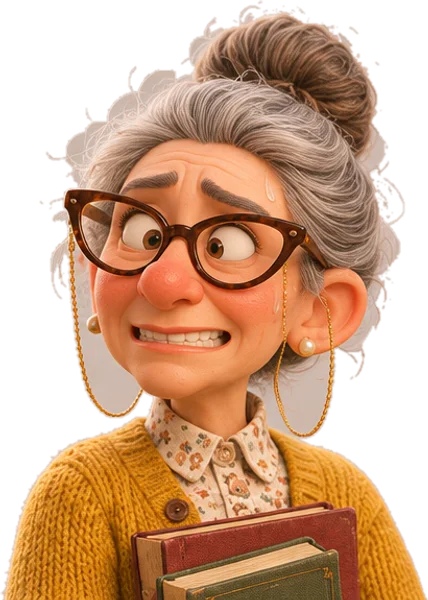
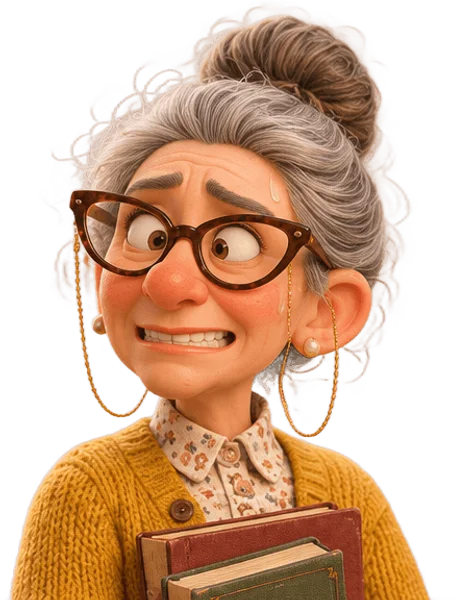
Games: 21 re-cut 3D portraits (Harbour Files Julian, Marcus, Hale, Meg, Ines, Mrs Dunn; Open House Grandma Ivy) (farin-english 6d7cd2dd)
Deploy exactly farin-english 6d7cd2dd:app

diff --git a/farin-sw.js b/farin-sw.js
@@ -1,4 +1,4 @@
-const CACHE = 'farin-english-v60';   // v60 2026-11-27: Harbour Files A1 opening hall (a1-plate-n12-hall-wide-hf.webp, the title card and hub); v59 2026-11-26: 13 Red Suitcase panels fixed (*-hf2.webp: A2 no fez / bowler / torches, the old camera; Whitby out of the window in A1 3.1 and 3.3); v58 v58 2026-11-26: Build It + Magic Words in their 9:16 3D rooms (the 3D lighthouse, doors, medallion, plaque, garden; THEATRE_VER 32); v57 2026-11-26: Open House in 3D (rooms + cut-outs repainted under the same names, manifest ?v=hf2, layers re-boxed); v56 2026-11-26: the quick games play in farin-e9's 9:16 3D rooms (Order Up!, Passport Desk, Listen & Type, Say It Back, Pier Dash, Word Bingo, Mini Cross, Story Hunt, Word Rush) with the 3D cut-outs under the same names; v55 2026-11-26: the game art fills the whole page: every intro poster is full-screen 9:16 key art (games/posters/<kind>-full.webp, the Red Suitcase unlettered cover), the quick-game worlds edge to edge (Theatre 1.4); v54 2026-11-26: Harbour Files redrawn in 3D (story panels, search plates, evidence + finds, the 1970 photos; *-hf.webp), two find boxes moved; v53 v53 2026-11-26: The Red Suitcase's own names (Danny, Nadia, Cobb) with their voices, Higgsfield Then & Now pairs (A1 ch2/4, A2, B2), the 2.6 calendar; v52 v52 2026-11-26: The Red Suitcase albums A2 / B1 / B2 in the Higgsfield painterly art (*-hf.webp, covers cover-hf, real-type signs, engine 0.7.2); v51 v51 2026-11-26: FE from the new art on the membership box (Farin's 11-21 autumn picture, winter from 1 Jan) and Profile (king, wizard, suitcase, binoculars); the old-sheet pictures removed; v50 v50 2026-11-26: the Higgsfield game art (Open House + Harbour Files 3D portraits, the café plates, Passport Desk in the 3D booth, The Red Suitcase A1 painterly panels ch1-6 + ch2 as comic pages + covers); v49 2026-11-26: the last 3D posters + cards, Order Up! shelf pictures without slivers; v48 2026-11-26: Home without the profile and Premium courses boxes, the membership box in brand purple with FE in his season clothes, the settings button opens Profile (FE in a Special / Travel outfit, Settings in its head), Courses in the bottom bar; v47 v47 2026-11-26: Captain in 3D (pt-captain-*.webp, same names); v46 2026-11-26: premium courses only through Plus and Guided (no single-course request or price); vv45 2026-11-26: the games' microphones (Say It Back, Open House free line: tap to stop, no lost taps, says why); v44 2026-11-26: the practice score weighs the whole answer (length, sentences, variety, topic), not just its length; v43 2026-11-26: Messages shows only the chats (no News from Farin list); v42 2026-11-26: card posters with ?v=, image cache fills revalidate (no stale copies), Open House / Harbour Files names; v41 2026-11-26: the new 3D roadmap cards (art/posters/card-*.webp, same names) + 3D posters; v40 2026-11-26: speaking-club dates refresh themselves while a screen stays open, old bookings pruned; vv39 2026-11-25: speaking clubs free for Guided members (free seat request, admin cross-check); vv38 2026-11-25: Guided includes the Thursday speaking clubs free (package text + a My Groups card in the Guided panel), adminMbPlanFor for the clubs; v37 2026-11-25: Order Up! 3D café art, full-body customers (same file names for the shelf items: a new cache); v36 2026-11-25: speaking clubs (My Groups, Speaking Club! roadmap cards, admin Speaking clubs + put a learner in), Group classes section removed; vv35 2026-11-25: premium courses have no price of their own (Plus box: no per-course request link); membership pings can't hide an activation; v34 2026-11-25: Order Up! customer chats + the cozy café look (games/worlds/order/world.css, skins.js order, chat voice clips); v33 2026-11-25: the speaking microphone starts and stops reliably (Round 3 of a speaking card, the Say it chips, course + IELTS recorders); v32 2026-11-25: memberships Free / Plus / Guided (header entry, membership page, manual payments + admin Payments / Members, 48-hour intro offer, Plus box on premium courses, page report in Plus, roadmap invitations); v31 2026-11-25: Premium courses list as picture cards (photo per course, Plus access line); v30 2026-11-25: FEschool intro before the questions, the roadmap build after Go!; v29 2026-11-23: shorter group-class offer with the discount, In app class offers (Messages card, mailbox); v28 2026-11-23: admin Your week, drag a class to another time; v27 2026-11-23: group classes: one time each (new order), 8 seats then a new class, silent refit, codes EA/SA, no mid-private; v26 2026-11-23: group classes of 6–8, class price offer (toman + lira), new course prices; v25 2026-11-21: roadmap v4, the box holds the current card down to the end (page scrolls), finished cards above it out of view; v24 2026-11-21: app icon = white FE face on purple; v22 2026-11-21: the roadmap box scrolls on its own, current card at its top, no earlier-cards bar; v21 2026-11-21: sharp 900 px FE p-cheer, welcome card 300 px; v20 2026-11-21: Home opens at the top, current card first under the earlier-cards bar; v19 2026-11-21: welcome card = FE cheering, 200 px; v18 2026-11-21: admin class rows keep the name column (actions shrink + wrap); v17 2026-11-21: Messages v2 (clean list, brand status pills, admin reply context + edit/delete);   // v16 2026-11-21: welcome card = FE medal + confetti; v15 2026-11-21: admin Group classes, gold frame + Offer sent tick; v14 2026-11-21: roadmap cards (purple/white/orange, no symbols, solid circles, page report card, Home opens on the current card, plan bubble off); v13 2026-11-21: onboarding redesign + welcome screen; v11 2026-11-20: FE white (art/fe, notif/*, icon-*.png repainted under the same names), only the clean pose set
+const CACHE = 'farin-english-v61';   // v61 2026-11-27: 21 portraits re-cut (Harbour Files Julian, Marcus, Hale, Meg, Ines, Mrs Dunn as a woman; Open House Grandma Ivy; ?v=hf3); v60 2026-11-27: Harbour Files A1 opening hall (a1-plate-n12-hall-wide-hf.webp, the title card and hub); v59 2026-11-26: 13 Red Suitcase panels fixed (*-hf2.webp: A2 no fez / bowler / torches, the old camera; Whitby out of the window in A1 3.1 and 3.3); v58 v58 2026-11-26: Build It + Magic Words in their 9:16 3D rooms (the 3D lighthouse, doors, medallion, plaque, garden; THEATRE_VER 32); v57 2026-11-26: Open House in 3D (rooms + cut-outs repainted under the same names, manifest ?v=hf2, layers re-boxed); v56 2026-11-26: the quick games play in farin-e9's 9:16 3D rooms (Order Up!, Passport Desk, Listen & Type, Say It Back, Pier Dash, Word Bingo, Mini Cross, Story Hunt, Word Rush) with the 3D cut-outs under the same names; v55 2026-11-26: the game art fills the whole page: every intro poster is full-screen 9:16 key art (games/posters/<kind>-full.webp, the Red Suitcase unlettered cover), the quick-game worlds edge to edge (Theatre 1.4); v54 2026-11-26: Harbour Files redrawn in 3D (story panels, search plates, evidence + finds, the 1970 photos; *-hf.webp), two find boxes moved; v53 v53 2026-11-26: The Red Suitcase's own names (Danny, Nadia, Cobb) with their voices, Higgsfield Then & Now pairs (A1 ch2/4, A2, B2), the 2.6 calendar; v52 v52 2026-11-26: The Red Suitcase albums A2 / B1 / B2 in the Higgsfield painterly art (*-hf.webp, covers cover-hf, real-type signs, engine 0.7.2); v51 v51 2026-11-26: FE from the new art on the membership box (Farin's 11-21 autumn picture, winter from 1 Jan) and Profile (king, wizard, suitcase, binoculars); the old-sheet pictures removed; v50 v50 2026-11-26: the Higgsfield game art (Open House + Harbour Files 3D portraits, the café plates, Passport Desk in the 3D booth, The Red Suitcase A1 painterly panels ch1-6 + ch2 as comic pages + covers); v49 2026-11-26: the last 3D posters + cards, Order Up! shelf pictures without slivers; v48 2026-11-26: Home without the profile and Premium courses boxes, the membership box in brand purple with FE in his season clothes, the settings button opens Profile (FE in a Special / Travel outfit, Settings in its head), Courses in the bottom bar; v47 v47 2026-11-26: Captain in 3D (pt-captain-*.webp, same names); v46 2026-11-26: premium courses only through Plus and Guided (no single-course request or price); vv45 2026-11-26: the games' microphones (Say It Back, Open House free line: tap to stop, no lost taps, says why); v44 2026-11-26: the practice score weighs the whole answer (length, sentences, variety, topic), not just its length; v43 2026-11-26: Messages shows only the chats (no News from Farin list); v42 2026-11-26: card posters with ?v=, image cache fills revalidate (no stale copies), Open House / Harbour Files names; v41 2026-11-26: the new 3D roadmap cards (art/posters/card-*.webp, same names) + 3D posters; v40 2026-11-26: speaking-club dates refresh themselves while a screen stays open, old bookings pruned; vv39 2026-11-25: speaking clubs free for Guided members (free seat request, admin cross-check); vv38 2026-11-25: Guided includes the Thursday speaking clubs free (package text + a My Groups card in the Guided panel), adminMbPlanFor for the clubs; v37 2026-11-25: Order Up! 3D café art, full-body customers (same file names for the shelf items: a new cache); v36 2026-11-25: speaking clubs (My Groups, Speaking Club! roadmap cards, admin Speaking clubs + put a learner in), Group classes section removed; vv35 2026-11-25: premium courses have no price of their own (Plus box: no per-course request link); membership pings can't hide an activation; v34 2026-11-25: Order Up! customer chats + the cozy café look (games/worlds/order/world.css, skins.js order, chat voice clips); v33 2026-11-25: the speaking microphone starts and stops reliably (Round 3 of a speaking card, the Say it chips, course + IELTS recorders); v32 2026-11-25: memberships Free / Plus / Guided (header entry, membership page, manual payments + admin Payments / Members, 48-hour intro offer, Plus box on premium courses, page report in Plus, roadmap invitations); v31 2026-11-25: Premium courses list as picture cards (photo per course, Plus access line); v30 2026-11-25: FEschool intro before the questions, the roadmap build after Go!; v29 2026-11-23: shorter group-class offer with the discount, In app class offers (Messages card, mailbox); v28 2026-11-23: admin Your week, drag a class to another time; v27 2026-11-23: group classes: one time each (new order), 8 seats then a new class, silent refit, codes EA/SA, no mid-private; v26 2026-11-23: group classes of 6–8, class price offer (toman + lira), new course prices; v25 2026-11-21: roadmap v4, the box holds the current card down to the end (page scrolls), finished cards above it out of view; v24 2026-11-21: app icon = white FE face on purple; v22 2026-11-21: the roadmap box scrolls on its own, current card at its top, no earlier-cards bar; v21 2026-11-21: sharp 900 px FE p-cheer, welcome card 300 px; v20 2026-11-21: Home opens at the top, current card first under the earlier-cards bar; v19 2026-11-21: welcome card = FE cheering, 200 px; v18 2026-11-21: admin class rows keep the name column (actions shrink + wrap); v17 2026-11-21: Messages v2 (clean list, brand status pills, admin reply context + edit/delete);   // v16 2026-11-21: welcome card = FE medal + confetti; v15 2026-11-21: admin Group classes, gold frame + Offer sent tick; v14 2026-11-21: roadmap cards (purple/white/orange, no symbols, solid circles, page report card, Home opens on the current card, plan bubble off); v13 2026-11-21: onboarding redesign + welcome screen; v11 2026-11-20: FE white (art/fe, notif/*, icon-*.png repainted under the same names), only the clean pose set
 const CACHE_PREFIX = CACHE.replace(/\d+$/, '');   // 'farin-english-v' / 'farin-spanish-v'
 const PAGE_URL = self.registration.scope;
 /* Cozy Chores painted art (Trello 1m2Y0zdU, 8JAiLuV7): the game's plates and cut-outs are sibling files
